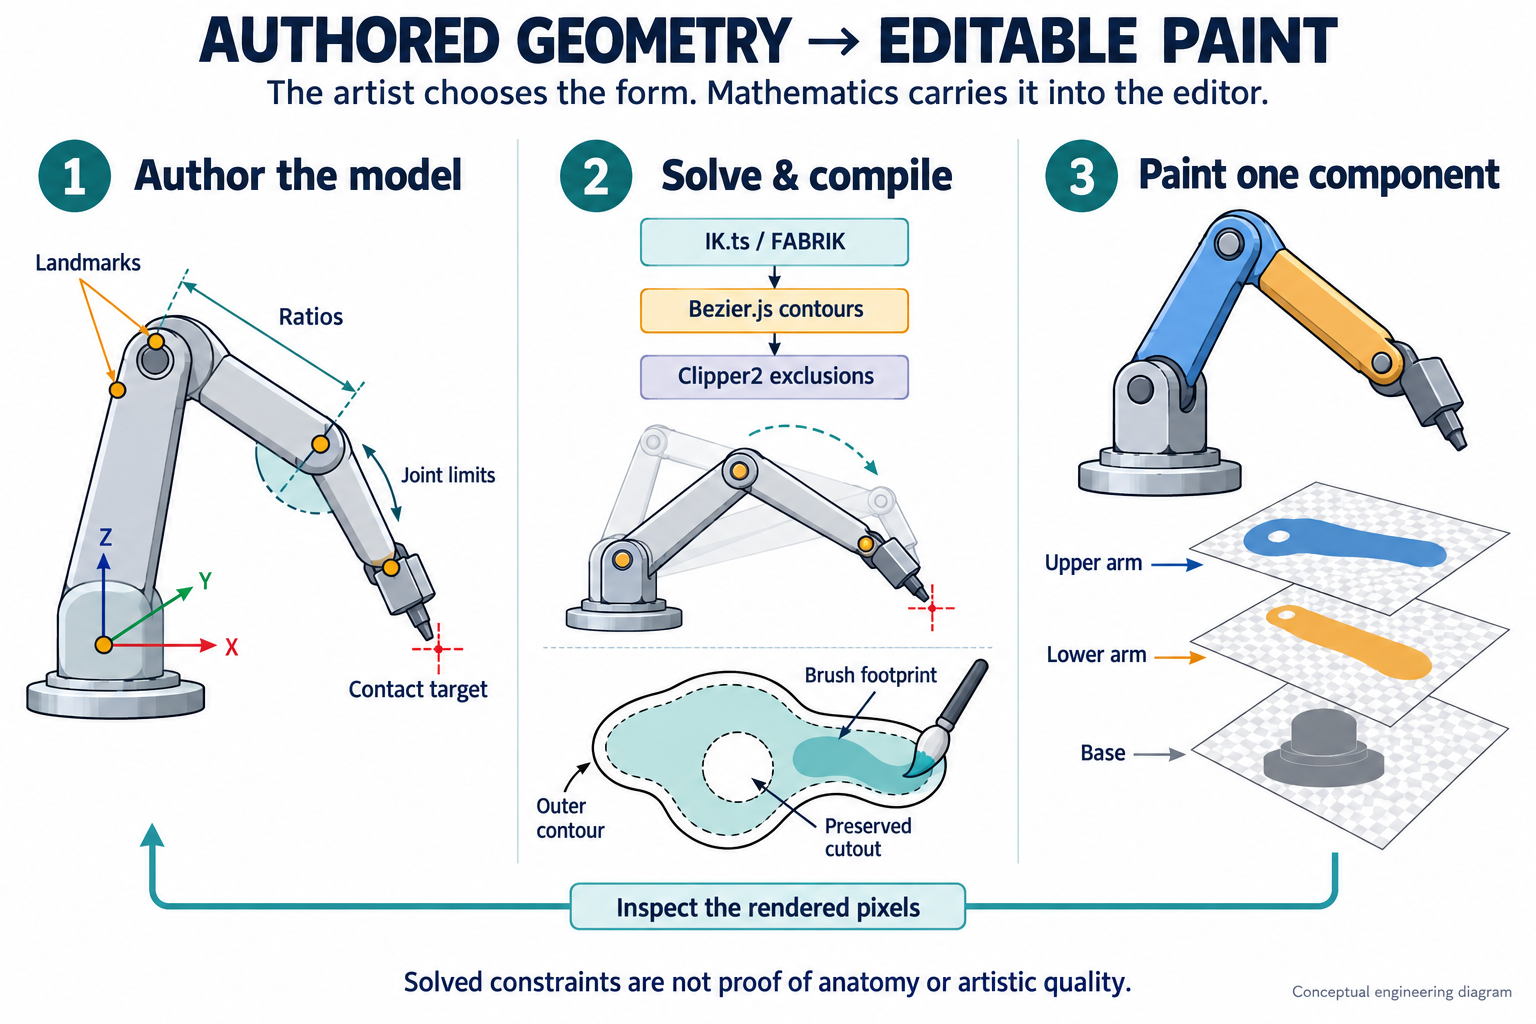
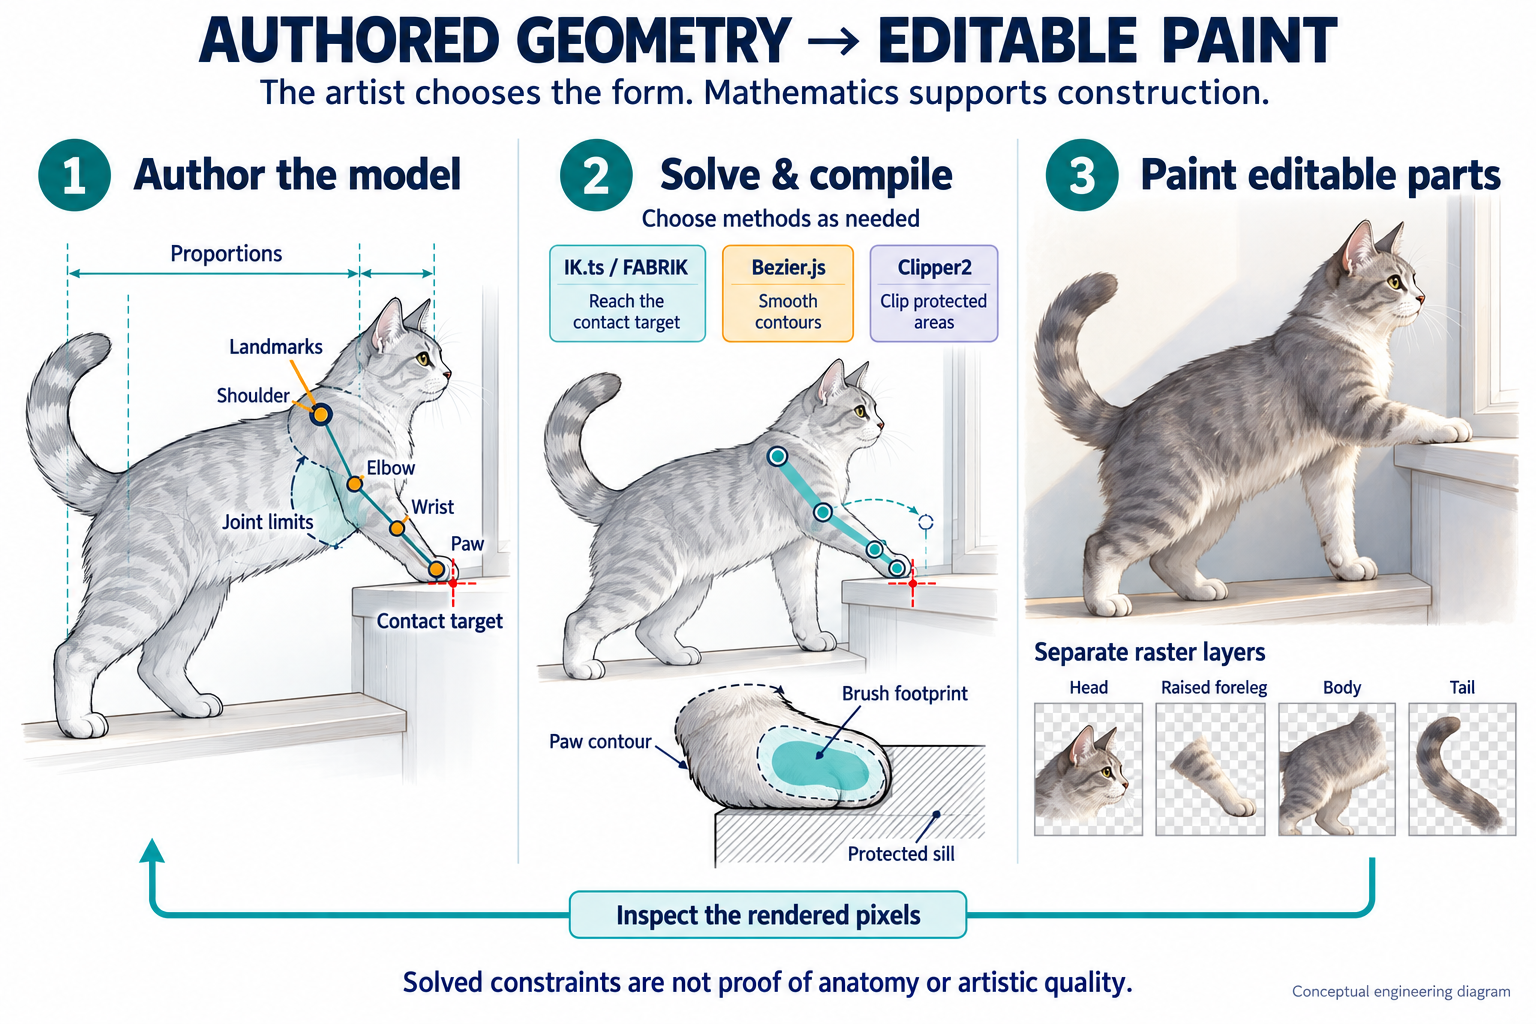
docs: illustrate authored geometry with a cat instead of a robot arm

diff --git a/assets/engineering/README.md b/assets/engineering/README.md
@@ -21,5 +21,11 @@ completed, not-executed, partial and still-uncertain work; no branch authorizes 
 Generation prompts, final-file hashes and dimensions are retained in
 [generation-prompts.json](generation-prompts.json). Two targeted imagegen edits corrected
 the Guard execution connector and the recovery sequence before publication.
+On 2026-10-11, an imagegen edit replaced the mechanical-arm example with a cat
+reaching a windowsill, to make the subject being painted unambiguous. IK.ts,
+Bezier.js and Clipper2 are shown as methods chosen when needed, not a mandatory
+serial pipeline. The layer thumbnails illustrate selected editable parts; they
+are not an exhaustive decomposition or a Photoshop screenshot.
+
 Existing library/algorithm attribution remains in
 [THIRD_PARTY_NOTICES.md](../../THIRD_PARTY_NOTICES.md).
